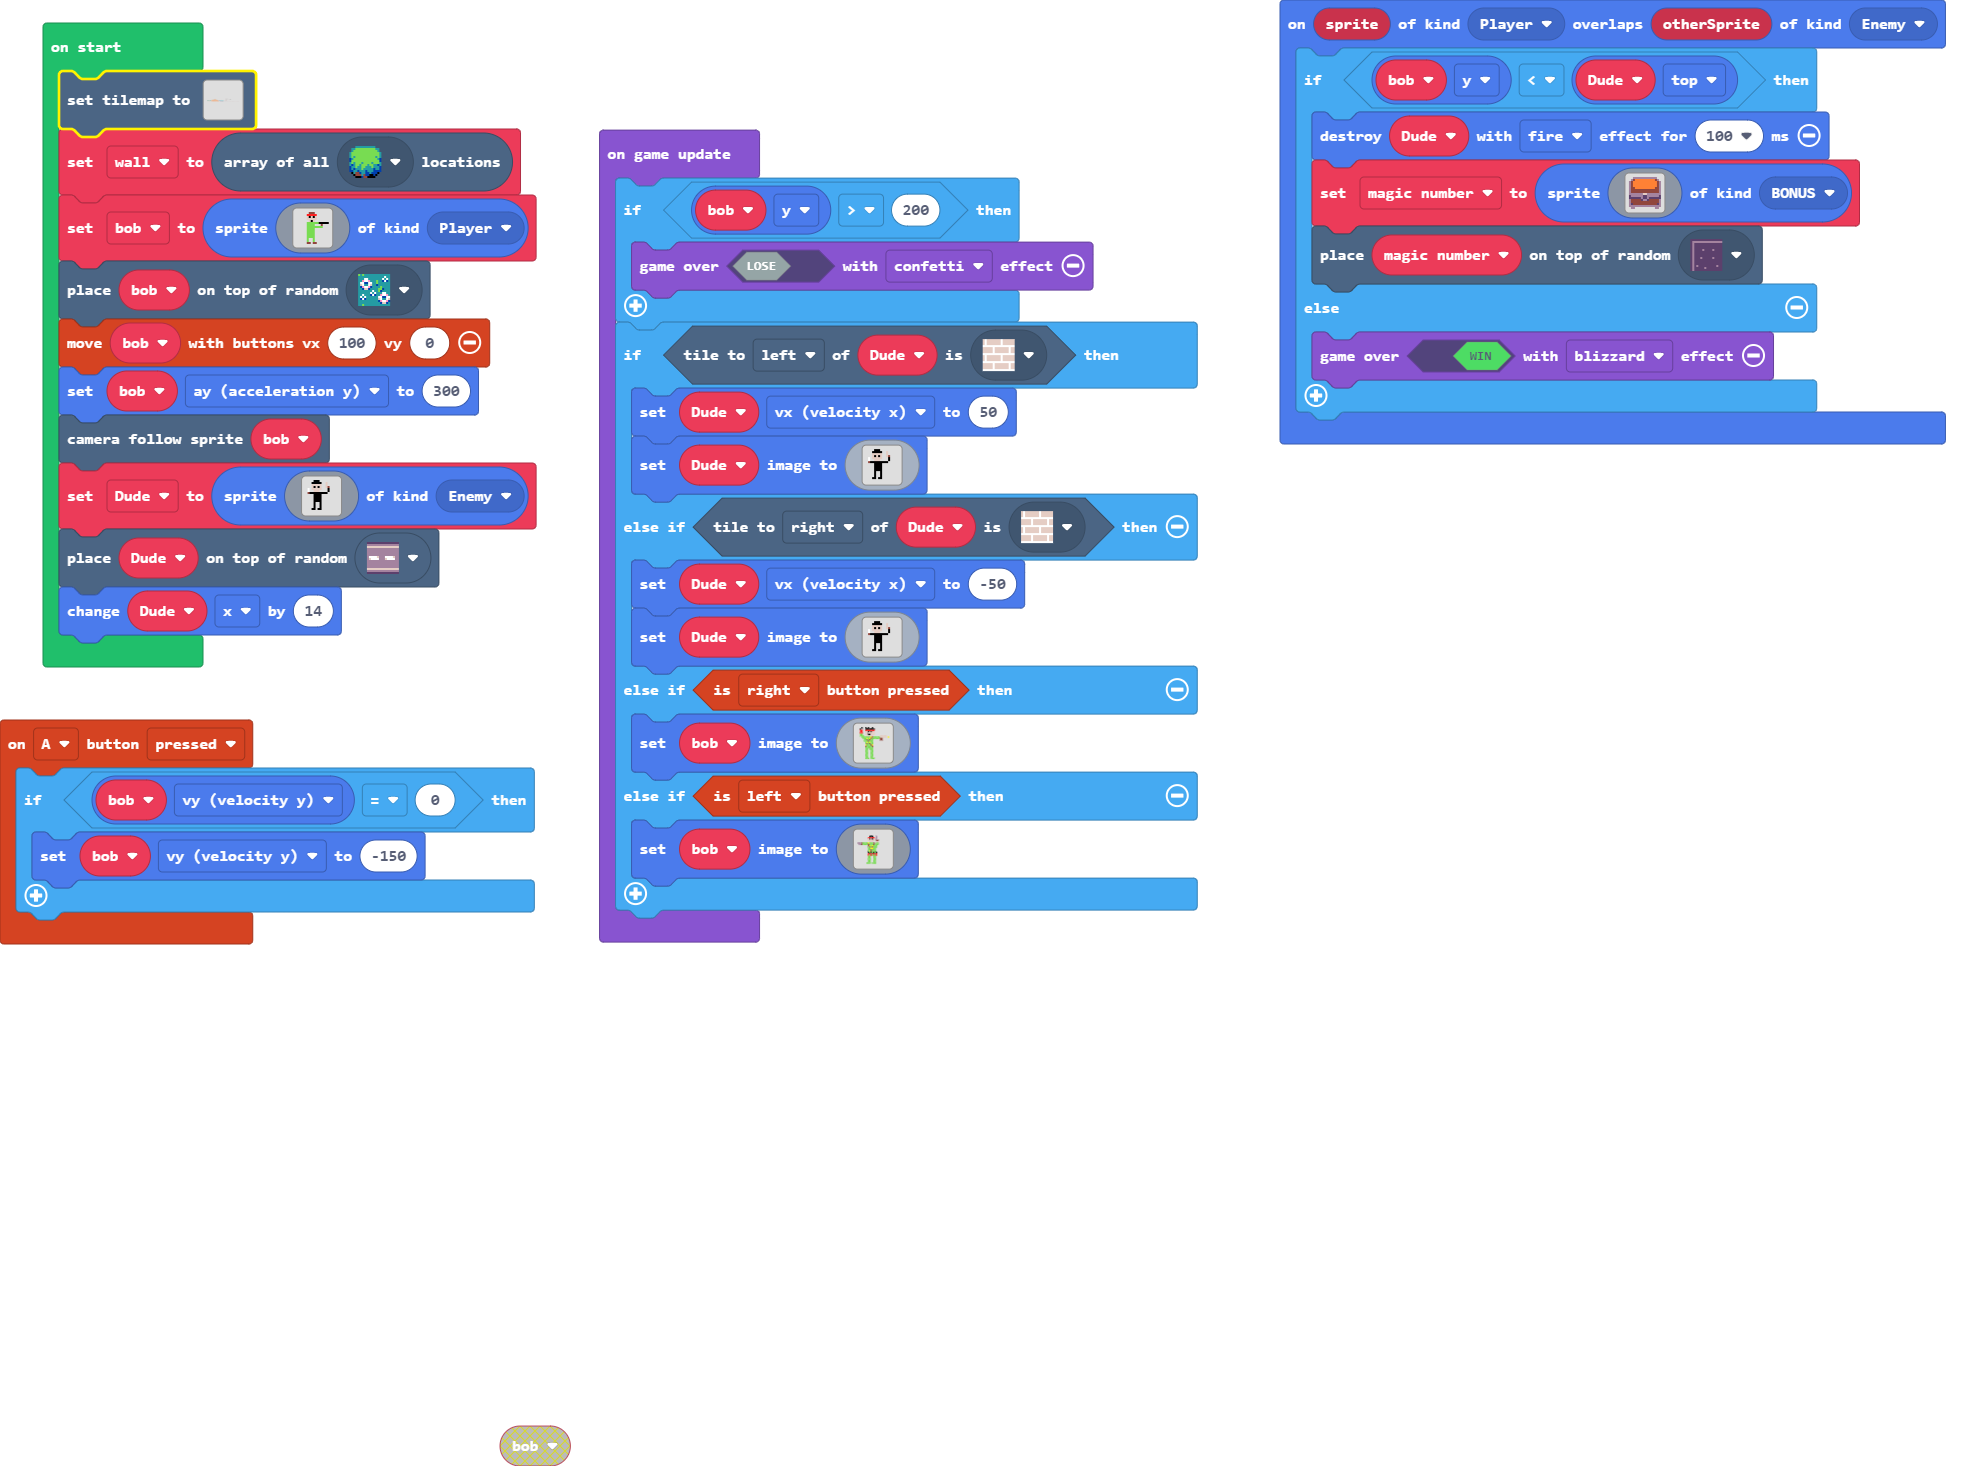
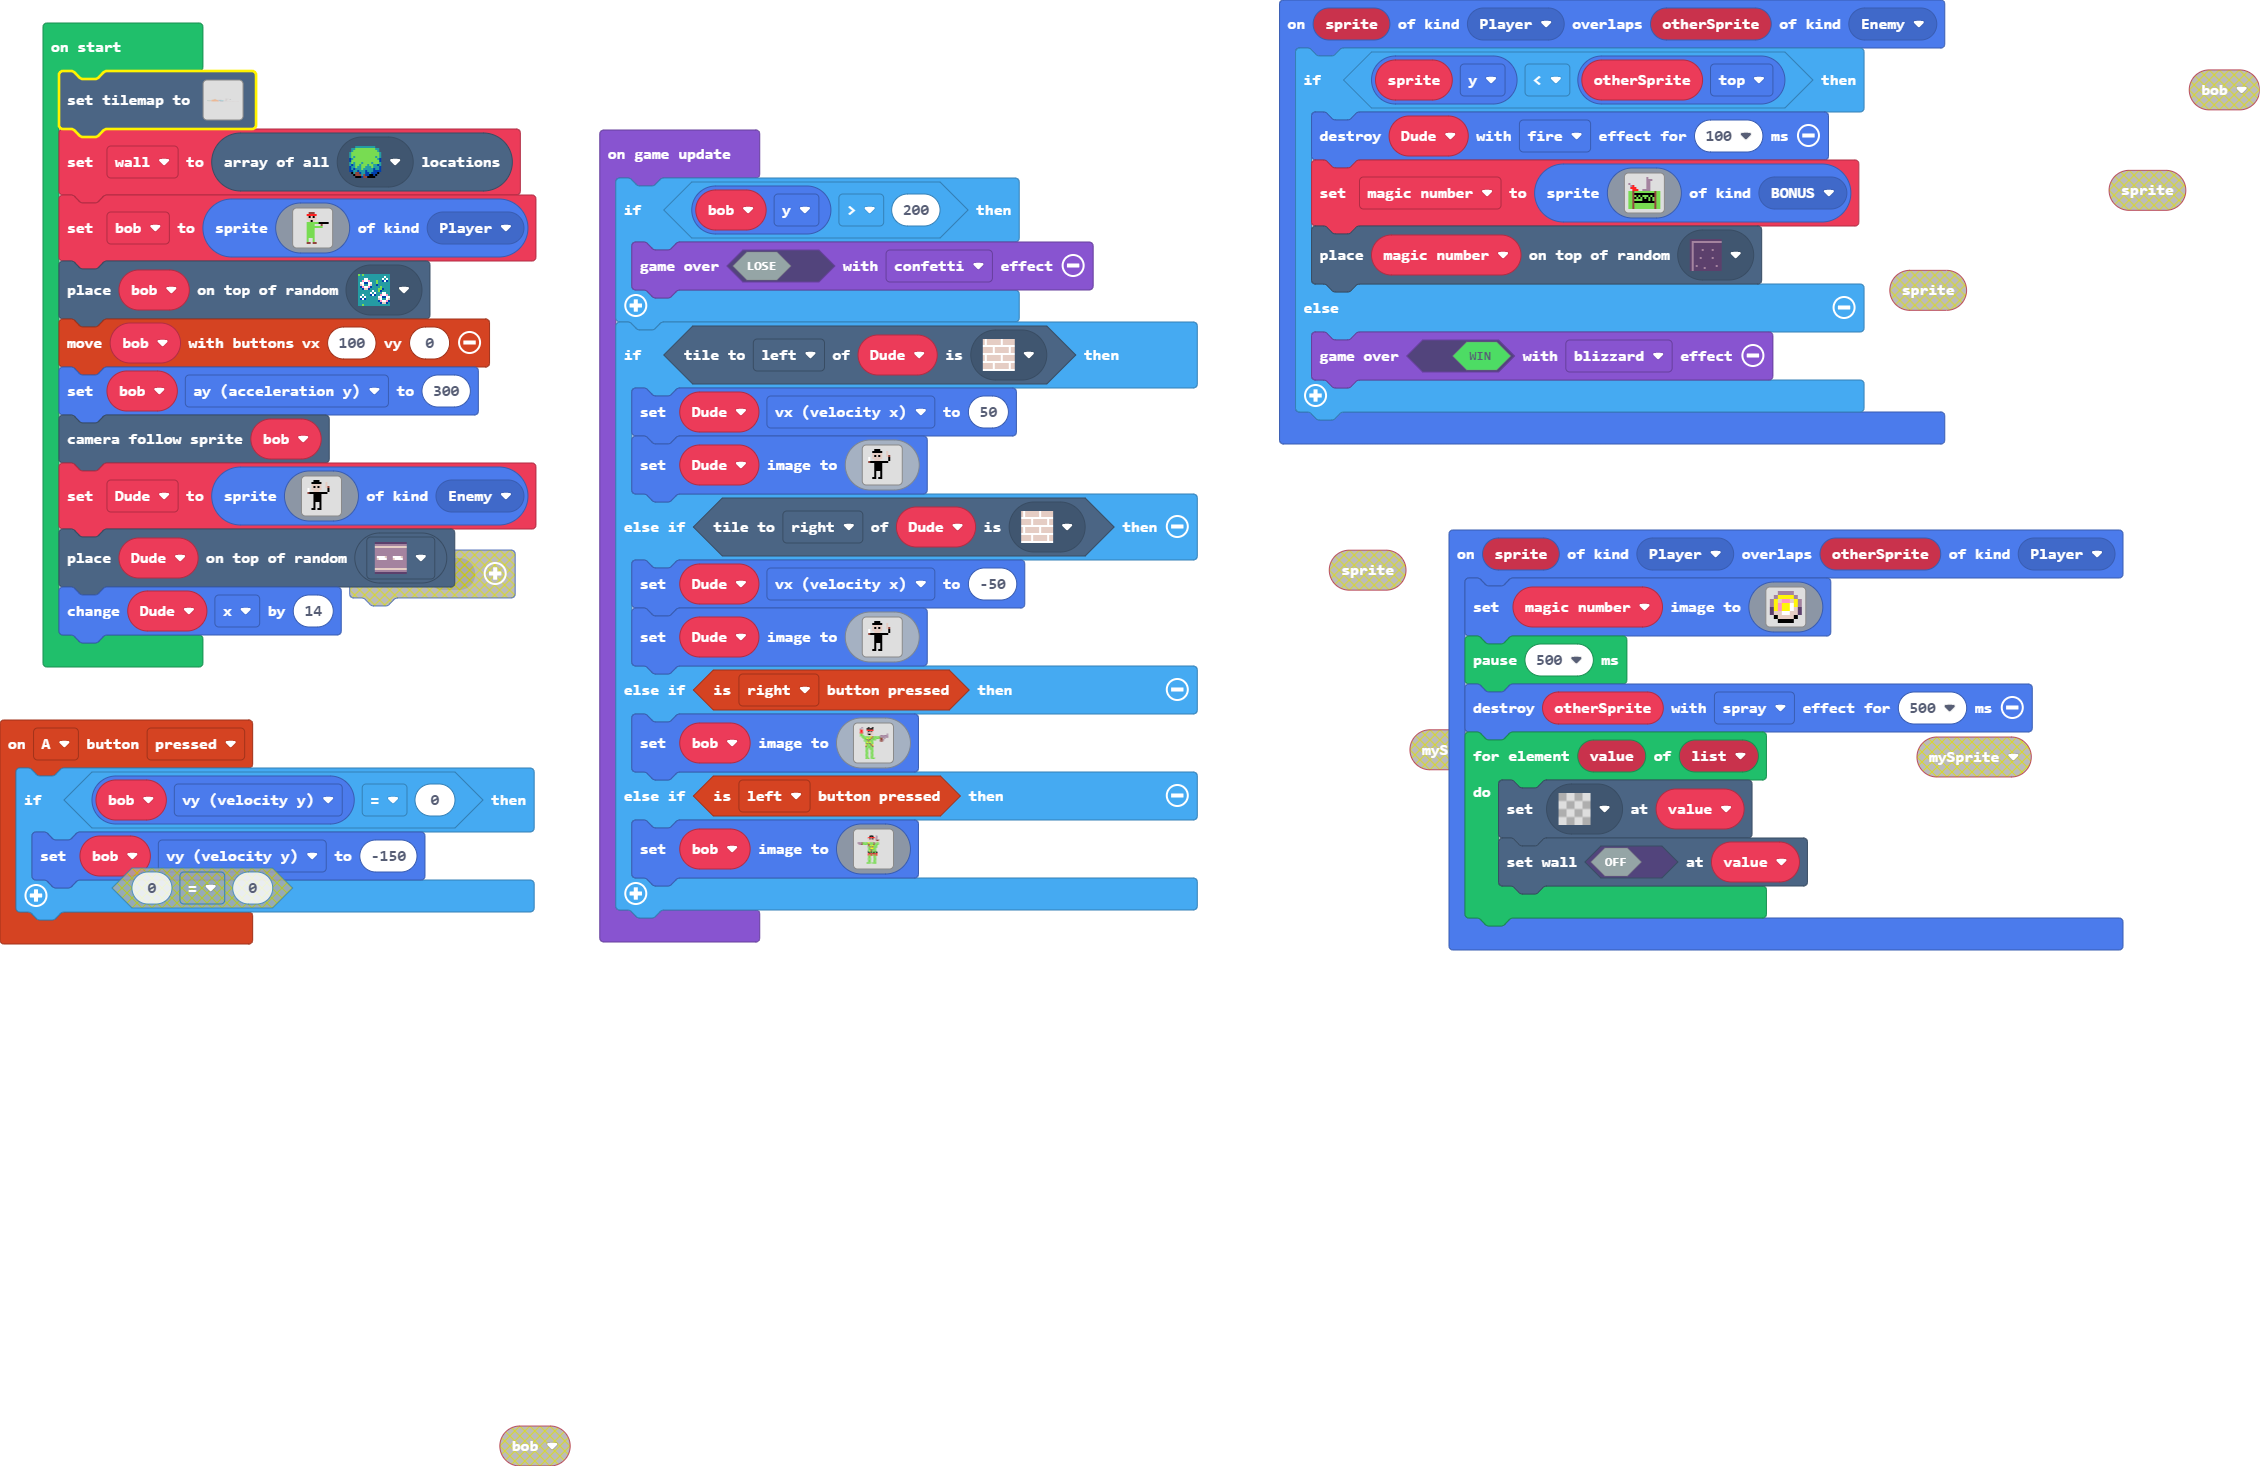
Update main.blocks, main.ts

Changed region(s): [[0.0, 0.0, 1.0, 0.6753], [0.2175, 0.9516, 0.3107, 1.0]]

diff --git a/main.ts b/main.ts
@@ -1,31 +1,50 @@
 namespace SpriteKind {
     export const BONUS = SpriteKind.create()
 }
+let list: tiles.Location[] = []
 controller.A.onEvent(ControllerButtonEvent.Pressed, function () {
     if (bob.vy == 0) {
         bob.vy = -150
     }
 })
+sprites.onOverlap(SpriteKind.Player, SpriteKind.Player, function (sprite, otherSprite) {
+    magic_number.setImage(img`
+        . . b b b b . . 
+        . b 5 5 5 5 b . 
+        b 5 d 3 3 d 5 b 
+        b 5 3 5 5 1 5 b 
+        c 5 3 5 5 1 d c 
+        c d d 1 1 d d c 
+        . f d d d d f . 
+        . . f f f f . . 
+        `)
+    pause(500)
+    otherSprite.destroy(effects.spray, 500)
+    for (let value of list) {
+        tiles.setTileAt(value, myTiles.transparency16)
+        tiles.setWallAt(value, false)
+    }
+})
 sprites.onOverlap(SpriteKind.Player, SpriteKind.Enemy, function (sprite, otherSprite) {
-    if (bob.y < Dude.top) {
+    if (sprite.y < otherSprite.top) {
         Dude.destroy(effects.fire, 100)
         magic_number = sprites.create(img`
-            . . b b b b b b b b b b b b . . 
-            . b e 4 4 4 4 4 4 4 4 4 4 e b . 
-            b e 4 4 4 4 4 4 4 4 4 4 4 4 e b 
-            b e 4 4 4 4 4 4 4 4 4 4 4 4 e b 
-            b e 4 4 4 4 4 4 4 4 4 4 4 4 e b 
-            b e e 4 4 4 4 4 4 4 4 4 4 e e b 
-            b e e e e e e e e e e e e e e b 
-            b e e e e e e e e e e e e e e b 
-            b b b b b b b d d b b b b b b b 
-            c b b b b b b c c b b b b b b c 
-            c c c c c c b c c b c c c c c c 
-            b e e e e e c b b c e e e e e b 
-            b e e e e e e e e e e e e e e b 
-            b c e e e e e e e e e e e e c b 
-            b b b b b b b b b b b b b b b b 
-            . b b . . . . . . . . . . b b . 
+            . . . . . . . . . b . . . . . . 
+            . . . . . . . . . b b b . . . . 
+            . . . . . . . . . b b . . . . . 
+            b . . . . . . . . b b . . . . . 
+            . b 2 . . . . . . b b . . . . . 
+            . 2 2 2 . . . . . b b . . . . . 
+            . . 2 2 2 . . b b b b . . . . . 
+            7 7 e 7 7 7 7 7 7 7 7 7 7 e 7 7 
+            7 7 e f f f f f f f f f f e 7 7 
+            7 7 e 7 f 7 f 7 7 7 f 7 f e 7 7 
+            7 7 e f 7 f 7 f 7 f 7 f 7 e 7 7 
+            7 7 e 7 7 7 7 f f f 7 f 7 e 7 7 
+            7 7 e f f f f f f f f f f e 7 7 
+            7 7 e 7 7 7 7 7 7 7 7 7 7 e 7 7 
+            7 7 e 7 7 7 7 7 7 7 7 7 7 e 7 7 
+            7 7 e 7 7 7 7 7 7 7 7 7 7 e 7 7 
             `, SpriteKind.BONUS)
         tiles.placeOnRandomTile(magic_number, sprites.dungeon.darkGroundNorthWest0)
     } else {
@@ -35,16 +54,16 @@ sprites.onOverlap(SpriteKind.Player, SpriteKind.Enemy, function (sprite, otherSp
 let magic_number: Sprite = null
 let Dude: Sprite = null
 let bob: Sprite = null
[2 lines of base64/hex data omitted]
     ......................................................................................................................................................
-    ......................................................................................................................................................
-    ......................................................................................................................................................
-    ......................................................................................................................................................
-    .....................................2..2.............................................................................................................
-    ................................2..2......................................................................22222.......................................
-    .........................2....2............2..................................................2222222.....222222......................................
-    .......................2....2................2...............................................22.2........2222222......................................
-    ....................22.........................22222.2..2.2..2.2.22.......................2222.2.........222..........................................
+    ....................................................................................................2.................................................
+    ....................................................................................................2.................................................
+    ....................................................................................................2.................................................
+    .....................................2..2...........................................................2.................................................
+    ................................2..2................................................................2.....22222.......................................
+    .........................2....2............2.....................2............................2222222.....222222......................................
+    .......................2....2................2.........2...2...2.2...........................22.2........2222222......................................
+    ....................22.........................22222.............22.......................2222.2.........222..........................................
     ...................2.............................22...............2...................222222...2.......22.............................................
     .................22..............................2222222222222222222.22.22.2.........22.22....2.......................................................
     222222222.....222..........................................................22.......22........2.......................................................
@@ -52,7 +71,7 @@ tiles.setTilemap(tiles.createTilemap(hex`960010000000000000000000000000000000000
     2.............................................................................2222..........2.........................................................
     ............................................................................................2.........................................................
     ...........................................................................................2..........................................................
-    `, [myTiles.transparency16,sprites.builtin.forestTiles0,sprites.castle.tilePath2,sprites.castle.tilePath5,sprites.dungeon.hazardLava1,sprites.builtin.brick,sprites.builtin.crowd3,sprites.castle.rock0,sprites.builtin.oceanDepths4,sprites.builtin.oceanDepths3,sprites.builtin.coral1,sprites.builtin.crowd2,sprites.dungeon.floorLight5,sprites.dungeon.floorLightMoss,sprites.dungeon.floorLight3,sprites.dungeon.floorLight2,sprites.dungeon.greenOuterNorth0,sprites.dungeon.greenOuterNorthWest,sprites.dungeon.greenOuterNorthEast,sprites.dungeon.darkGroundNorthWest1,sprites.dungeon.chestClosed,sprites.dungeon.hazardLava0,sprites.builtin.coral0,sprites.dungeon.hazardWater,sprites.vehicle.roadHorizontal,sprites.dungeon.floorLight0], TileScale.Sixteen))
+    `, [myTiles.transparency16,sprites.builtin.forestTiles0,sprites.castle.tilePath2,sprites.castle.tilePath5,sprites.dungeon.hazardLava1,sprites.builtin.brick,sprites.builtin.crowd3,sprites.castle.rock0,sprites.builtin.oceanDepths4,sprites.builtin.oceanDepths3,sprites.builtin.coral1,sprites.builtin.crowd2,sprites.dungeon.floorLight5,sprites.dungeon.floorLightMoss,sprites.dungeon.floorLight2,sprites.dungeon.greenOuterNorth0,sprites.dungeon.greenOuterNorthWest,sprites.dungeon.greenOuterNorthEast,sprites.dungeon.darkGroundNorthWest1,sprites.dungeon.chestClosed,sprites.dungeon.hazardLava0,sprites.builtin.coral0,sprites.dungeon.hazardWater,sprites.dungeon.floorLight0,sprites.dungeon.darkGroundNorthEast1,sprites.builtin.oceanDepths6,sprites.castle.tileDarkGrass2,sprites.builtin.coral5], TileScale.Sixteen))
 let wall = tiles.getTilesByType(sprites.builtin.forestTiles0)
 bob = sprites.create(img`
     . . . . . . e e e . . . . . . . 
@@ -142,17 +161,17 @@ game.onUpdate(function () {
             `)
     } else if (controller.right.isPressed()) {
         bob.setImage(img`
-            ...f..f.f..f............
-            ..f...fffffff...........
-            ..22..2222222...........
-            ..22..ddfdfdd...........
-            ..22..ddddddd...........
-            ..77..ddffddd...........
-            ..777..ddddd.....ddddd..
-            ...77777775e77777ddddd.5
-            ....777575e777777ee.....
-            .....77e7e77.....ee.....
-            .....777e777............
+            ...b....f..f............
+            ..b....fffff............
+            ..22...22222............
+            ..22...dfdfd............
+            ..22...ddddd............
+            ..77...dffdd..........b.
+            ..777...ddd......bbbbbb.
+            ...77777775e77777bbbbbb.
+            ....777575e777777ee.b...
+            .....77e7e7777...eeb....
+            .....777e777.....ee.....
             ......757577............
             ......7e7e77............
             ......5777e5............
